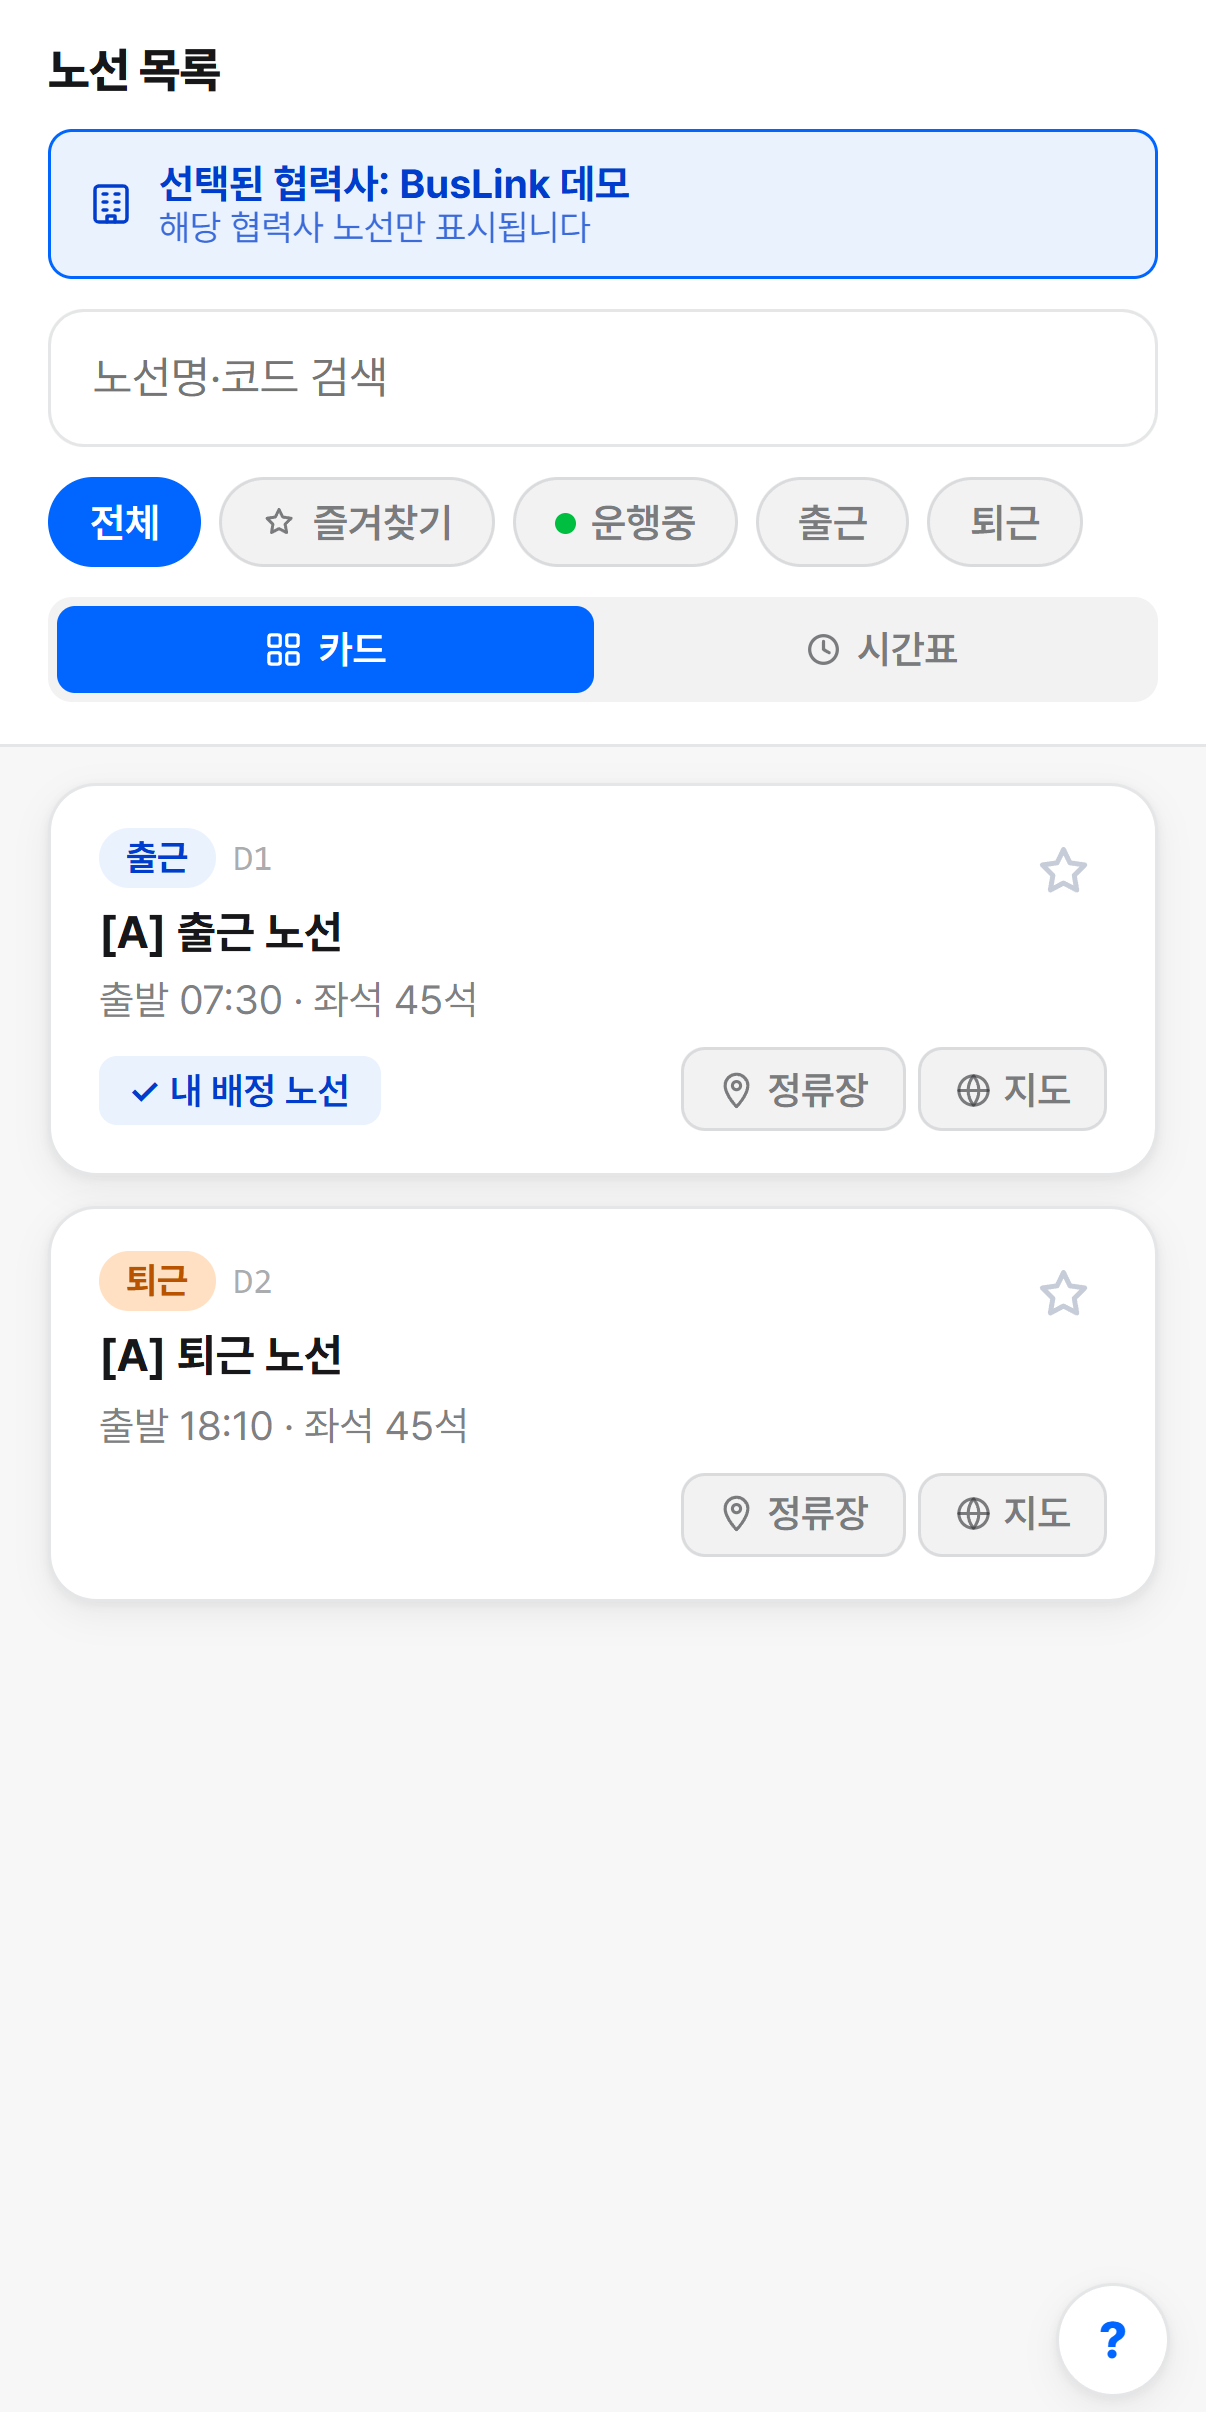
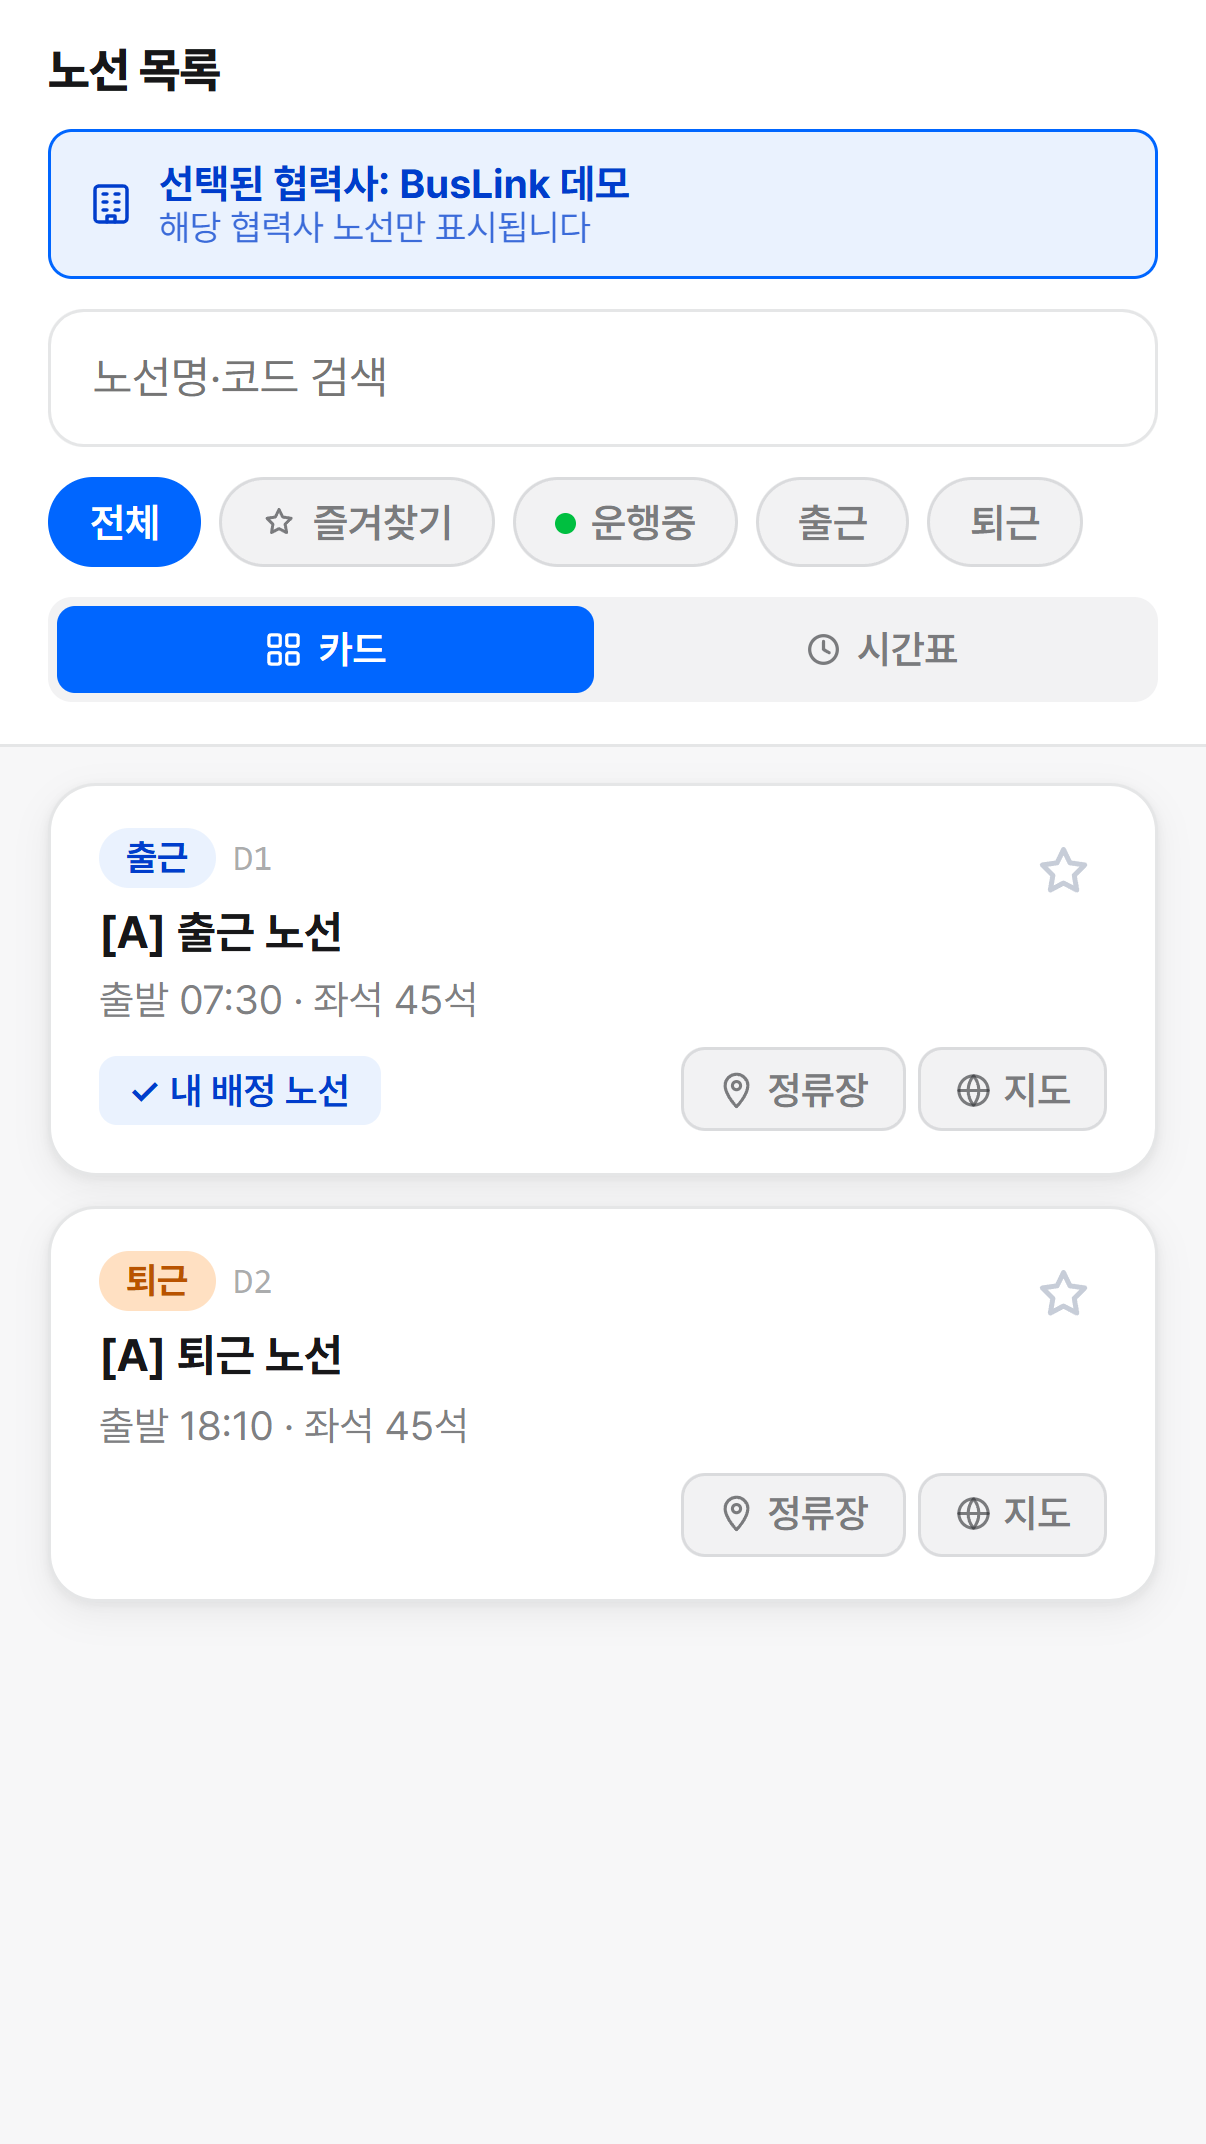
chore(승객앱 안드로이드): Play 앱 생성·앱 콘텐츠·스토어 정보 진행 기록 + 9:16 스크린샷·설명문

diff --git a/.claude/tasks.md b/.claude/tasks.md
@@ -3,7 +3,11 @@
 > 작업 시작/완료 시 이 파일만 수정. 체크박스 관리. 어느 PC든 이어작업용.
 
 > **2026-10-08 — 승객앱 안드로이드(Play) 트랙 시작(way «안드로이드 진행 · 계정 다원서비스»)**: 래퍼 `native/passenger-android`(Windows 에서 빌드 · businweb `native/driver-android` 선례 복제) — appId `kr.co.buslink.passenger`(iOS 와 같음) · «BusLink 탑승» · 원격 `p.buslink.co.kr/p` · `@capacitor/barcode-scanner`·`@capacitor-firebase/messaging` · minSdk 26(스캐너 라이브러리 요구) · 권한 카메라·위치·알림(AD_ID 없음). Firebase 안드로이드 앱 `1:1040702853398:android:45b90d739a9bc5bd7c4037` 등록 → `google-services.json`(커밋). 🔴 업로드 키 `native/passenger-android/keys/`(git 제외 · **회사 드라이브 백업 필요**). release AAB `android/app/build/outputs/bundle/release/app-release.aab`(20MB · 서명 확인) · 시험 APK `E:\downloads\BusLink탑승-1.0-test.apk`. 웹: 토큰 `platform` 실제 OS · 안드로이드 채널 `default` 생성 · 권한 안내 `appSettingsPath`(✅ prod 배포). 스토어 그림 `native/passenger-android/store/`(512 아이콘·1024×500·폰 3장 = iOS 6.3" 를 2:1 로 자름 · 홈 제외).
-> - [ ] Play Console(다원서비스 · dy@ · /u/2/ · 개발자 ID 6712128681954992181): 확장 프로그램 play.google.com 권한 → 앱 생성 → 스토어 정보·앱 콘텐츠(처리방침 `https://p.buslink.co.kr/privacy` · 심사 계정 APPREVIEW · 데이터 보안) → 내부 테스트 AAB → 실기기 확인 → 프로덕션 심사
+> - [x] Play 앱 생성(10-08 · 앱 ID **4973478273411149704** · 패키지 사용 가능 확인 · 기본 언어 ko-KR · 무료) · 계정에 옛 «버스링크 승객용» `kr.co.buslink.cust`(프로덕션 4명) 있음 → **유지**(iOS 와 같은 결정)
+> - [x] 앱 콘텐츠: 처리방침 URL · 광고 없음 · 광고 ID 미사용 · 정부/금융/건강 없음 · 데이터 보안 **임시저장**(이름·사용자 ID·기타 정보[소속]=필수·앱 기능(+이름/ID 계정 관리) · 앱 상호작용[탑승 기록]=필수 · 기기 ID[알림 토큰]=선택 · 공유 없음 · 전송 암호화 · 계정 = 회사 발급 · 삭제 요청 URL=privacy) — 제출은 타겟층 뒤
+> - [x] 스토어 등록정보(임시저장): 간단·자세한 설명 `native/passenger-android/store/listing-ko.md` · 아이콘 512 · 그래픽 1024×500 · 폰 3장(🔴 Play 는 **9:16** — iOS 6.3" 를 1206×2144 로 자름) · 스토어 설정: 지도/내비게이션 · dy@ · +8215889718 · /support
+> - [ ] ⏳ way: ① 로그인 세부정보 비밀번호 칸 PIN → 추가 → 저장 ② IARC 설문 약관 동의 여부 ③ 타겟층(13세 이상 vs 18세 이상) ④ 내부 테스트 AAB 업로드(`E:\downloads\BusLink탑승-1.0-release.aab` — 20MB 라 브라우저 도구 10MB 한도 초과로 대행 불가)
+> - [ ] 그 뒤: 내부 테스터 → 실기기 → 프로덕션 심사
 > - [ ] 실기기: APK 설치 → 로그인·QR 스캔·알림 수신·상단 상태바 겹침(안드로이드 15+ edge-to-edge) 확인
 
 > **2026-10-08 게시판 `IJ7EcMnj` 홈화면 지도확장(배시현·채드윅)** ✅ prod 배포 · done: `homeMap.large` 는 켜져 있었다 — 10-01 21시 B안(`09ebfe3`)이 정류장 미선택 안내를 3줄·18px(111px)로 키워 지도 크게(`358032c`·15시)보다 뒤에 들어와 지도를 먹었다. `largeMap` 일 때만 2줄 압축형(63px · 360/390 폭 잘림 0 · 지도 +48px) `src/pages/EmployeeApp.js` `home-stop-prompt-compact`. 가드 `test_home_map_size.cjs` +3. 미검증: 실기기 지도 높이(로그인 계정 필요).

diff --git a/native/passenger-android/store/listing-ko.md b/native/passenger-android/store/listing-ko.md
@@ -1,0 +1,26 @@
+# Play 스토어 등록정보 (ko-KR) — BusLink 탑승
+
+## 앱 이름 (30자)
+BusLink 탑승
+
+## 간단한 설명 (80자)
+통근·통학버스 실시간 위치 확인과 QR 탑승. 회사가 발급한 계정으로 이용합니다.
+
+## 자세한 설명 (4000자)
+BusLink 탑승은 회사·학교와 계약한 통근·통학버스를 이용하는 분을 위한 앱입니다.
+
+■ 실시간 버스 위치
+내 노선의 버스가 지금 어디쯤 오고 있는지 지도에서 바로 볼 수 있습니다. 내 정류장을 정해 두면 도착 예정 시각도 알려 드립니다.
+
+■ QR 탑승
+버스에 붙은 QR 코드를 찍으면 탑승이 기록됩니다. 줄을 서서 명단을 확인할 필요가 없습니다.
+
+■ 공지와 도착 알림
+운행 시간 변경, 우천 지연 같은 공지를 앱 알림으로 받습니다. 내 정류장에 버스가 가까워지면 미리 알려 드립니다.
+
+■ 노선·시간표
+이용할 수 있는 노선과 정류장, 출발 시각을 한눈에 확인합니다. 자주 타는 노선은 즐겨찾기로 모아 볼 수 있습니다.
+
+※ 이 앱은 BusLink 통근버스 서비스를 계약한 회사·학교의 이용자 전용입니다. 계정(사번과 비밀번호)은 소속 회사가 발급하며, 앱에서 직접 가입할 수는 없습니다.
+
+문의: dy@dongyeongtour.co.kr
